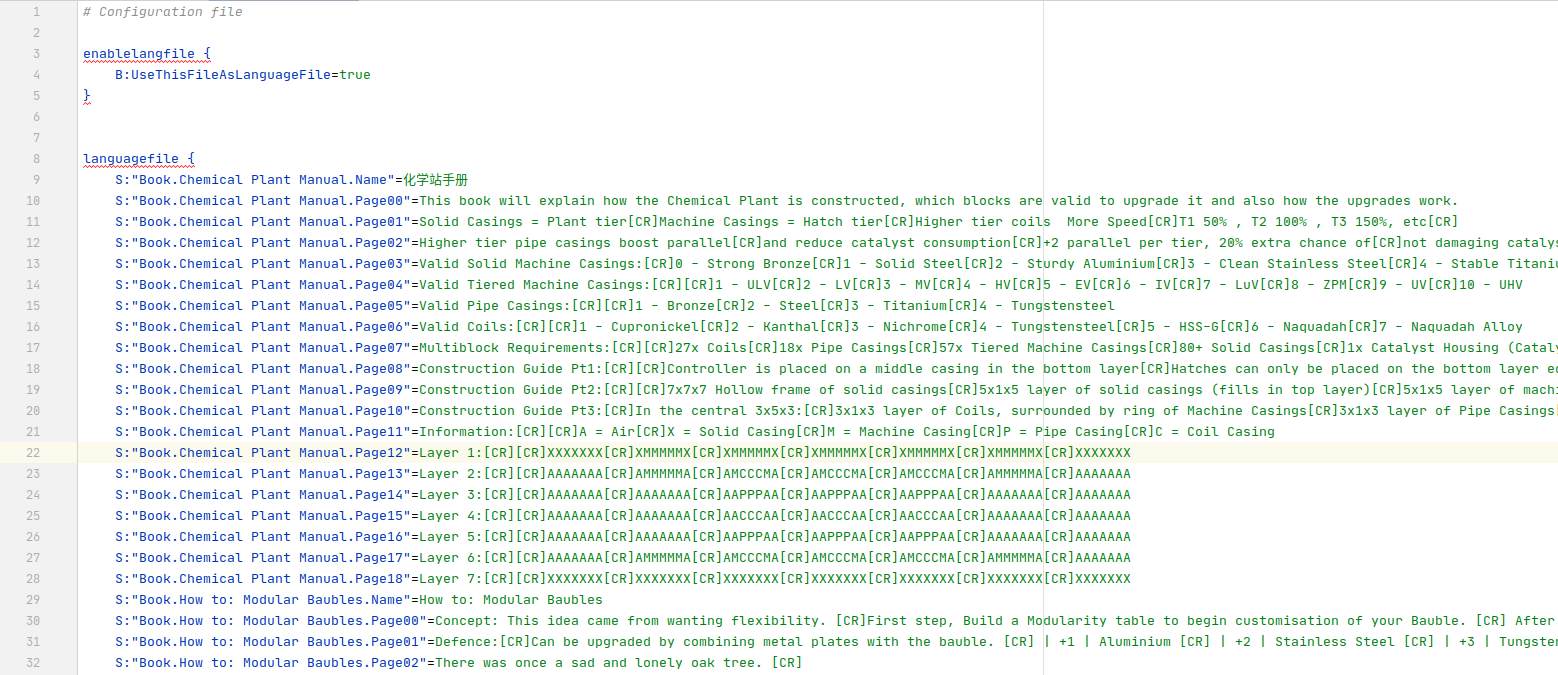
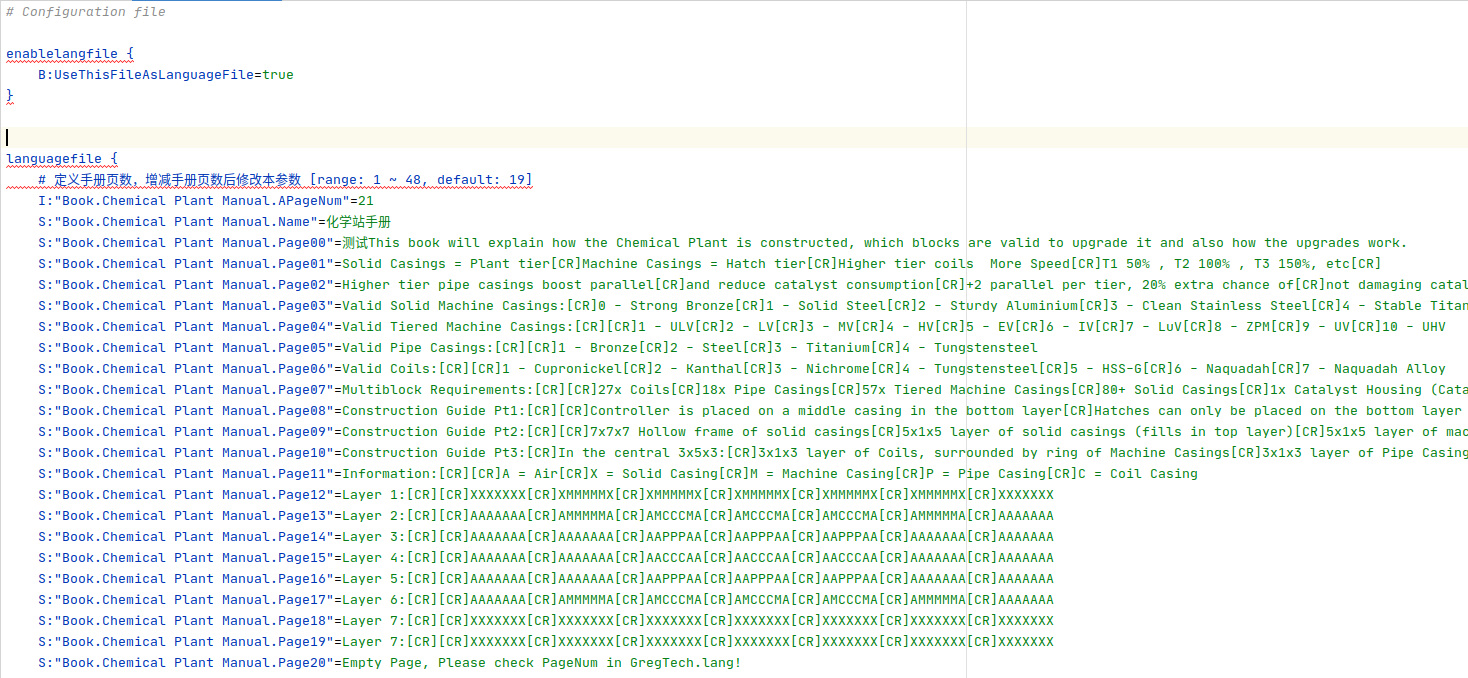
更新 Readme

Changed region(s): [[0.0, 0.2178, 1.0, 0.9956], [0.0, 0.0622, 0.2452, 0.1556], [0.0, 0.0, 0.1533, 0.0311]]

diff --git a/README.md b/README.md
@@ -13,4 +13,6 @@
 
     - 文本中 `[CR]` 为手册中换行符替换，如无需调整手册排版，请不要修改。
 
-    - 请保持手册原有页数，不要增加或删除页面
+    - 增减手册页面时，不要忘记修改 APageNum 配置（由于页面从0开始计数，请修改为最大页码数+1）
+
+    - 如发现手册末尾页面为 `Empty Page, Please check PageNum in GregTech.lang!`，说明 APageNum 参数设置过大，请修改该参数，并删除自动生成的空页面
